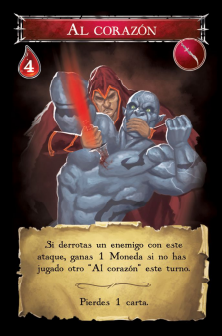
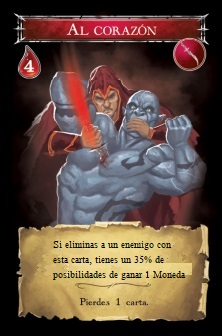
-Cartas rojas implementadas

diff --git a/src/main/java/org/springframework/samples/notimeforheroes/cards/skillcard/SkillCardsService.java b/src/main/java/org/springframework/samples/notimeforheroes/cards/skillcard/SkillCardsService.java
@@ -24,6 +24,7 @@ import org.springframework.samples.notimeforheroes.cards.skillcard.gamesUsersSki
 import org.springframework.samples.notimeforheroes.cards.skillcard.gamesUsersSkillcards.GamesUsersSkillCardsService;
 import org.springframework.samples.notimeforheroes.cards.skillcard.gamesUsersSkillcards.SkillState;
 import org.springframework.samples.notimeforheroes.game.Game;
+import org.springframework.samples.notimeforheroes.game.exceptions.DontHaveEnoughGoldToBuyException;
 import org.springframework.samples.notimeforheroes.game.gamesUsers.GameUser;
 import org.springframework.samples.notimeforheroes.game.gamesUsers.GameUserService;
 import org.springframework.samples.notimeforheroes.user.User;
@@ -290,5 +291,56 @@ public class SkillCardsService {
 		game.getUsers().stream().filter(otherUser -> !otherUser.equals(user))
 								.forEach(otherUser -> gamesUsersSkillCardsService.recoverCards(game, otherUser, 2));		
 	}
+
+	public void useAlCorazon(EnemyCard enemyCard, Game game, User user, SkillCard skillCard) throws Exception {
+		gamesEnemiesService.damageEnemy(game, enemyCard, user, 4);
+		if(new Random().nextInt(100) < 35){	//Probabilidad del 35%
+			gamesUsersSkillCardsService.gainGold(game, user, 1);
+		}
+		gamesUsersSkillCardsService.discardCards(game, user, 1);
+	}
+
+	public void useAtaqueFurtivo(EnemyCard enemyCard, Game game, User user, SkillCard skillCard) throws Exception {
+		
+		gamesEnemiesService.damageEnemy(game, enemyCard, user, 2);
+		if(new Random().nextInt(4) == 0){
+			gamesUsersSkillCardsService.gainGold(game, user, 1);
+		}
+	}
+
+    public void useBallestaPrecisa(EnemyCard enemyCard, Game game, User user, SkillCard skillCard) throws Exception {
+		Boolean masDeLaMitadDeLaVida = (enemyCard.getMaxHealth() / 2.0) < gamesEnemiesService.findByGameAndEnemy(game, enemyCard).get().getHealth();
+		gamesEnemiesService.damageEnemy(game, enemyCard, user, masDeLaMitadDeLaVida ? 3 : 2);
+    }
+
+	public void useEngañar(Game game, User user, SkillCard skillCard) throws Exception {
+		GameUser player = gameUserService.findByGameAndUser(game, user).get();
+		if(player.getGlory() != null && player.getGold() >= 2){
+			gamesUsersSkillCardsService.loseGold(game, user, 2);
+			gamesUsersSkillCardsService.defendDamage(game, user, 2);
+		}else{
+			throw new DontHaveEnoughGoldToBuyException();
+		}
+	}
+
+	public void useRobarBolsillos(Game game, User user, SkillCard skillCard) throws Exception {
+		List<User> otherUsersWithOneGold = game.getUsers().stream()
+				.filter(u -> !u.equals(user))
+				.map(u -> gameUserService.findByGameAndUser(game, u).get())
+				.filter(player -> player.getGold() >= 1)
+				.map(player -> userService.findByGameUser(player))
+				.collect(Collectors.toList());
+
+		gamesUsersSkillCardsService.gainGold(game, user, otherUsersWithOneGold.size());
+		for (User u : otherUsersWithOneGold) {
+			gamesUsersSkillCardsService.loseGold(game, u, 1);
+		}
+	}
+
+    public void useSaqueo(Game game, User user, SkillCard skillCard) throws Exception {
+		gamesUsersSkillCardsService.gainGold(game, user, 2 * enemyCardService.findOnTableEnemiesByGame(game).size());
+    }
+
+
 
 }

diff --git a/src/main/java/org/springframework/samples/notimeforheroes/game/GameService.java b/src/main/java/org/springframework/samples/notimeforheroes/game/GameService.java
@@ -475,6 +475,23 @@ public class GameService {
 				case 44:
 					skillCardsService.useTorrenteDeLuz(enemiesTargetedList.get(0), game, user, skillCard);
 					break;
+				case 45: case 46:
+					skillCardsService.useAlCorazon(enemiesTargetedList.get(0), game, user, skillCard);
+					break;
+				case 47: case 48: case 49:
+					skillCardsService.useAtaqueFurtivo(enemiesTargetedList.get(0), game, user, skillCard);
+					break;
+				case 50: case 51: case 52:
+					skillCardsService.useBallestaPrecisa(enemiesTargetedList.get(0), game, user, skillCard);
+					break;
+				case 55:
+					skillCardsService.useEngañar(game, user, skillCard);
+					break;
+				case 56:
+					skillCardsService.useRobarBolsillos(game, user, skillCard);
+					break;
+				case 57:
+					skillCardsService.useSaqueo(game, user, skillCard);
 			
 				default://Si no requiere lógica adicional
 					executeActions(game, user, skillCard.getActions(), enemiesTargetedList);

diff --git a/src/main/java/org/springframework/samples/notimeforheroes/game/GameController.java b/src/main/java/org/springframework/samples/notimeforheroes/game/GameController.java
@@ -308,7 +308,10 @@ public class GameController {
 		} catch (IncorrectNumberOfEnemiesException e) {
 			model.addAttribute("message", "Esa carta no puede aplicarse a ese número de enemigos");
 			return gamePlaying(model, gameId);
-		} catch (Exception e) {
+		}catch(DontHaveEnoughGoldToBuyException e){
+			model.addAttribute("message", "Necesitas más oro para ejecutar esta acción");
+			return gamePlaying(model, gameId);
+		}catch (Exception e) {
 			model.addAttribute("message", "Error desconocido al usar carta");
 			//e.printStackTrace();
 			return gamePlaying(model, gameId);
